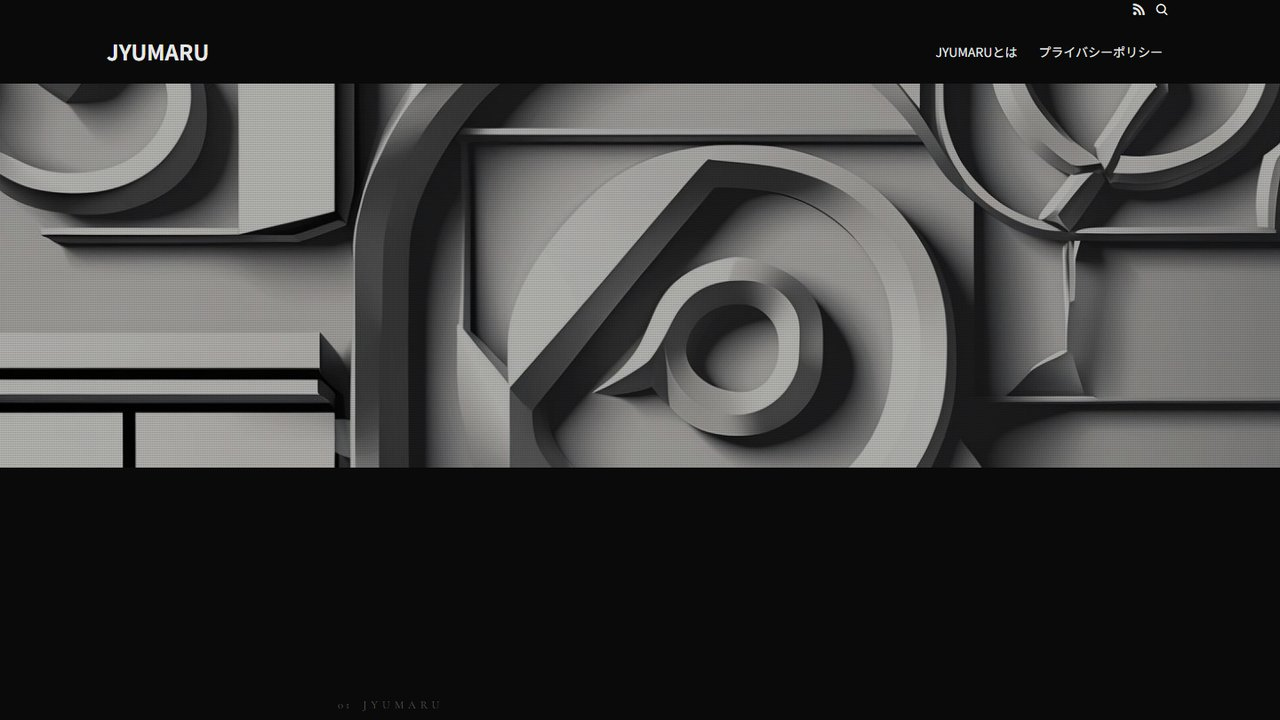
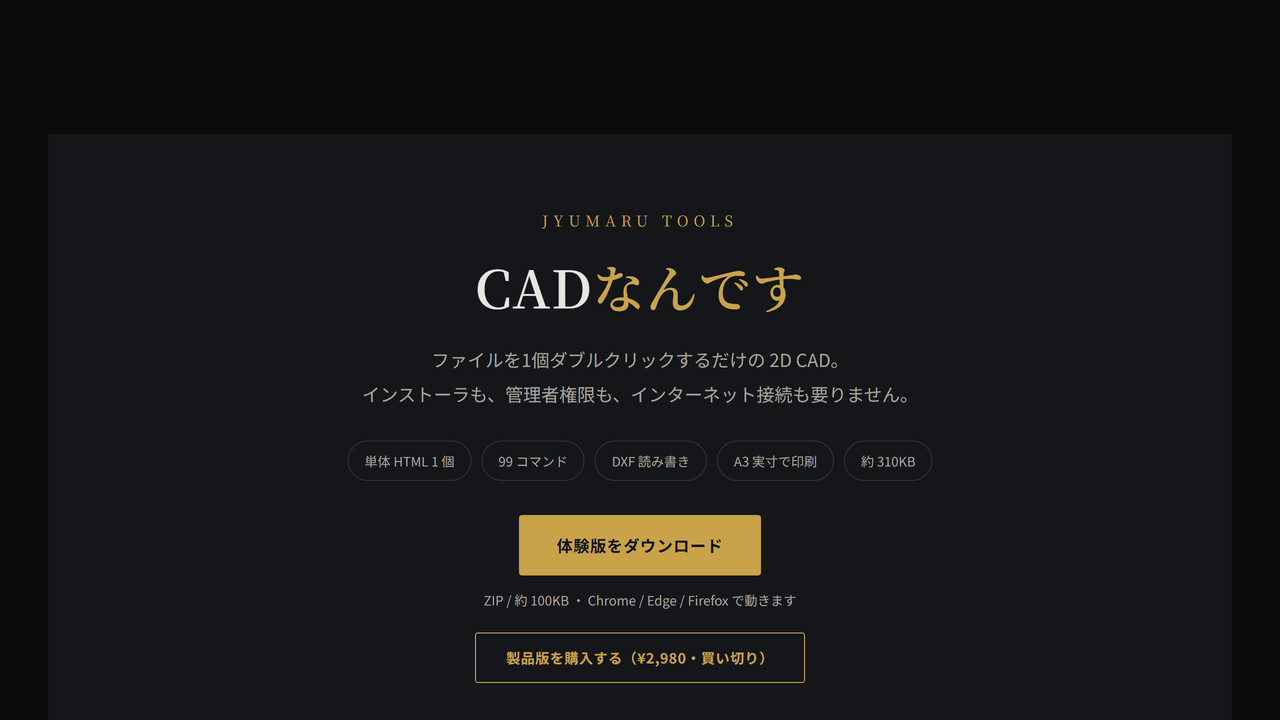
fix(links): 制作相談CTAの行き先を復旧、作例03を現状のjbrain.spaceに追従
jbrain.space が自作2D CAD「CADなんです」の製品LPに全面改装され
(固定ページID 234・旧相談ページ202は非公開)、ポートフォリオから
そこへ向いていた導線と記述が実態と食い違っていた。

- 「制作を相談する」CTA 3箇所(ヘッダー/ヒーロー/下部)を
  mailto へ変更。CADなんですの購入問い合わせと同じ窓口に揃えた。
  相談ページを別途用意するまでの暫定
- 作例03 のスクリーンショットを撮り直し(旧画像は下1/3が黒帯だった)
- 作例03 の見出しと本文を製品LPとしての現状に更新し、掲載内容の行を追加
- フッターのリンク集の説明文を実態に合わせた

「サイトを見る↗」「公式サイト↗」は行き先として正しいので据え置き。

diff --git a/index.html b/index.html
@@ -370,7 +370,7 @@ h1.hero-t .ln:nth-child(2)>i{transition-delay:.13s}
       <a href="#about">About</a>
       <a href="#faq">Q&amp;A</a>
     </nav>
-    <a href="https://jbrain.space/" target="_blank" rel="noopener" class="hd-c">制作を相談する</a>
+    <a href="mailto:jyumaru.shidou@gmail.com?subject=%E5%88%B6%E4%BD%9C%E3%81%AE%E3%81%94%E7%9B%B8%E8%AB%87" class="hd-c">制作を相談する</a>
   </div>
 </header>
 
@@ -389,7 +389,7 @@ h1.hero-t .ln:nth-child(2)>i{transition-delay:.13s}
     </h1>
     <p class="hero-l" data-r style="--d:.34s">Webサイト、広告バナー、社内で使う業務ツール、生成AIを使ったビジュアル制作。仕様書はなくて構いません。「こういうことがしたい」の一行から、要件を組み立てるところごとお引き受けします。いきなり完成品を目指さず、まず小さく形にしてお見せするので、「思っていたのと違った」が起きません。</p>
     <div class="hero-a" data-r style="--d:.44s">
-      <a href="https://jbrain.space/" target="_blank" rel="noopener" class="act act-p"><span>制作を相談する</span><small>free consultation</small></a>
+      <a href="mailto:jyumaru.shidou@gmail.com?subject=%E5%88%B6%E4%BD%9C%E3%81%AE%E3%81%94%E7%9B%B8%E8%AB%87" class="act act-p"><span>制作を相談する</span><small>free consultation</small></a>
       <a href="#works" class="act"><span>作例を見る</span><small>fourteen projects</small></a>
     </div>
     <ul class="facts" data-r style="--d:.54s">
@@ -576,15 +576,16 @@ h1.hero-t .ln:nth-child(2)>i{transition-delay:.13s}
 
       <!-- 03 -->
       <article class="wk" data-c="build" data-r style="--d:.08s">
-        <button class="wk-hd" aria-expanded="false"><span class="wk-n">03</span><span class="wk-t">jbrain.space｜スタジオ公式サイト</span><span class="wk-k">Website</span><span class="wk-x" aria-hidden="true"></span></button>
+        <button class="wk-hd" aria-expanded="false"><span class="wk-n">03</span><span class="wk-t">jbrain.space｜自社製品のランディングページ</span><span class="wk-k">Website</span><span class="wk-x" aria-hidden="true"></span></button>
         <div class="wk-bd"><div class="wk-ov"><div class="wk-in">
-          <div class="wk-v"><img src="jbrain-shot.jpg" alt="jbrain.space のトップページ" loading="lazy"></div>
+          <div class="wk-v"><img src="jbrain-shot.jpg" alt="jbrain.space のトップページ。自作2D CAD「CADなんです」の製品ページ" loading="lazy"></div>
           <div class="wk-c">
             <span class="wk-note">自社サイト（設計から運用まで）</span>
-            <p>自分のスタジオの公式サイト。企画、構成、デザイン、実装、公開後の更新まですべて自分で行っています。黒地に明朝でトーンを作り、写真ではなく文字で信頼感を出す方向に振りました。WordPressで運用しています。</p>
+            <p>自分のスタジオのサイト。現在は、自作した2D CAD「CADなんです」の製品ページとして運用しています。企画、構成、デザイン、実装、公開後の更新まですべて自分で行っています。黒地に明朝でトーンを作り、写真ではなく文字で信頼感を出す方向に振りました。体験版の配布から購入までを1ページに収めた構成です。</p>
             <dl class="wk-dl">
               <div><dt>担当</dt><dd>企画・デザイン・実装・運用</dd></div>
               <div><dt>技術</dt><dd>WordPress（REST API経由での更新も実装）</dd></div>
+              <div><dt>掲載</dt><dd>自作2D CAD「CADなんです」の配布・販売</dd></div>
               <div><dt>状態</dt><dd>公開中・運用継続</dd></div>
             </dl>
             <a class="wk-go" href="https://jbrain.space/" target="_blank" rel="noopener">サイトを見る ↗</a>
@@ -891,13 +892,13 @@ h1.hero-t .ln:nth-child(2)>i{transition-delay:.13s}
     <h2 data-r style="--d:.06s">まず、困っていることを<br>聞かせてください。</h2>
     <p class="lead" data-r style="--d:.14s">仕様書は要りません。「こういうことがしたい」の一行から始められます。初回のご相談は無料です。お話を伺ったうえで、何を、どう作るのがいいかをご提案します。</p>
     <div class="hero-a" data-r style="--d:.2s">
-      <a href="https://jbrain.space/" target="_blank" rel="noopener" class="act act-p"><span>制作を相談する</span><small>reply within 1 business day</small></a>
+      <a href="mailto:jyumaru.shidou@gmail.com?subject=%E5%88%B6%E4%BD%9C%E3%81%AE%E3%81%94%E7%9B%B8%E8%AB%87" class="act act-p"><span>制作を相談する</span><small>reply within 1 business day</small></a>
       <a href="#works" class="act"><span>作例をもう一度見る</span><small>fourteen projects</small></a>
     </div>
     <p class="cta-n" data-r style="--d:.26s">クラウドワークス経由でのご依頼にも対応しています。</p>
 
     <div class="links" data-r>
-      <a href="https://jbrain.space/" target="_blank" rel="noopener"><em>Official</em><b>jbrain.space</b><span>スタジオの公式サイト</span></a>
+      <a href="https://jbrain.space/" target="_blank" rel="noopener"><em>Official</em><b>jbrain.space</b><span>自社サイト／自作ツールの販売</span></a>
       <a href="https://note.com/jyumarucom" target="_blank" rel="noopener"><em>note</em><b>JYUMARU</b><span>制作と自動化の実装記録</span></a>
       <a href="https://www.youtube.com/@Tangent_com/shorts" target="_blank" rel="noopener"><em>YouTube</em><b>Tangent</b><span>楽曲とビジュアライザー</span></a>
       <a href="https://www.redbubble.com/people/jyumaru/shop" target="_blank" rel="noopener"><em>Shop</em><b>Redbubble</b><span>浮世絵デザインの物販</span></a>
